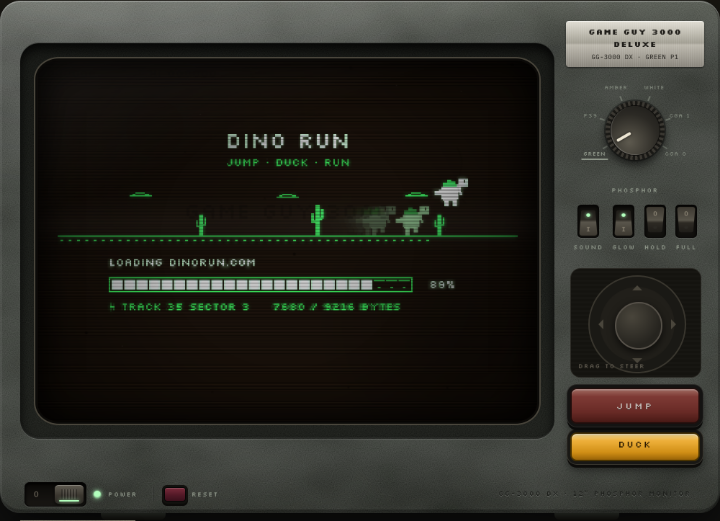
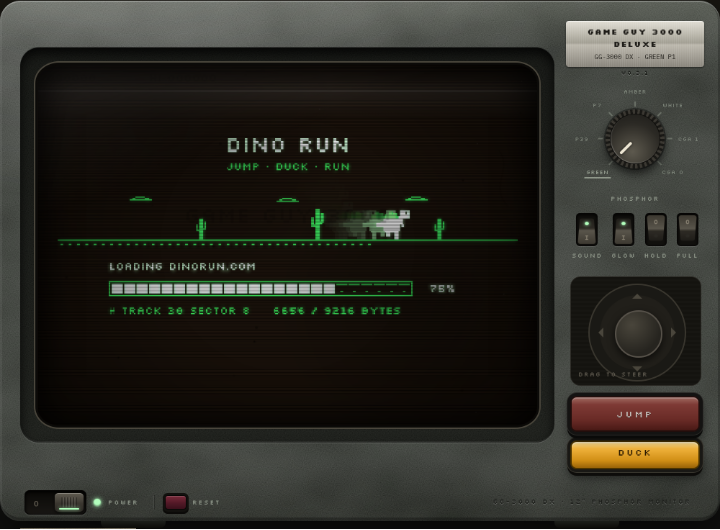
feat(console): show the release version under the nameplate
Stamp the version from package.json on its own embossed line under the
Game Guy plate, and keep that plate on screen in every layout, including
phone landscape where it sits on the right in the middle.

diff --git a/src/styles/console.css b/src/styles/console.css
@@ -93,11 +93,13 @@ button:focus-visible{outline:2px solid var(--phos);outline-offset:2px}
   background:var(--grain),linear-gradient(180deg,color-mix(in srgb, var(--plastic-lo) 55%, #000),color-mix(in srgb, var(--plastic-lo) 75%, #000));background-size:160px 160px,auto;background-blend-mode:soft-light,normal;
   box-shadow:inset 0 8px 16px rgba(0,0,0,.8),inset 0 -2px 0 rgba(255,255,255,.07),0 1px 0 rgba(255,255,255,.14),0 -1px 0 rgba(0,0,0,.3)}
 .controls{grid-area:ctl;display:flex;flex-direction:column;align-items:center;gap:14px;min-width:0}
-.nameplate{width:100%;display:grid;gap:2px;justify-items:center;padding:7px 6px;border-radius:4px;color:#1f1d19;
+.nameplate{width:100%;display:grid;gap:4px;justify-items:center}
+.np-badge{width:100%;display:grid;gap:2px;justify-items:center;padding:7px 6px;border-radius:4px;color:#1f1d19;
   background:repeating-linear-gradient(90deg,rgba(255,255,255,.08) 0 1px,transparent 1px 3px),linear-gradient(180deg,#e2dfd5,#a3a094 48%,#bdb9ae 52%,#8a867d);
   box-shadow:inset 0 1px 0 rgba(255,255,255,.75),0 1px 2px rgba(0,0,0,.55)}
 .nameplate b{font-family:var(--display);font-size:11px;letter-spacing:.08em;font-weight:700}
-.nameplate span{font-family:var(--body);font-size:9px;letter-spacing:.04em;white-space:nowrap}
+.np-badge span{font-family:var(--body);font-size:9px;letter-spacing:.04em;white-space:nowrap}
+.np-ver{margin:0;font-family:var(--display);font-size:8px;letter-spacing:.18em;line-height:1;color:var(--plastic-lo);text-shadow:0 1px 0 rgba(255,255,255,.22),0 -1px 0 rgba(0,0,0,.25)}
 .dial-block{display:grid;justify-items:center;gap:2px}
 .dial-wrap{position:relative;width:148px;height:148px}
 .dial-labels{position:absolute;inset:0}
@@ -130,7 +132,7 @@ button:focus-visible{outline:2px solid var(--phos);outline-offset:2px}
 [data-layout="console"] .power{position:static;flex-wrap:wrap;justify-content:center;gap:8px}
 [data-layout="console"] .power > .ctl-label,[data-layout="console"] .reset-grp .ctl-label{display:none}
 [data-layout="console"] .reset-grp{margin:0;padding:0;border:0;box-shadow:none}
-/* sideways gamepad: switches and power top left over the joystick; dial top right over FIRE and BOOST */
+/* sideways gamepad: switches and power top left over the joystick; dial top right, the plate mid-right, FIRE and BOOST below it */
 [data-layout="console"] .controls{display:contents}
 [data-layout="console"] .rockers{grid-area:rock;align-self:end;justify-self:center}
 [data-layout="console"] .power{grid-area:pwr;align-self:start;justify-self:center;flex-wrap:nowrap}
@@ -143,9 +145,11 @@ button:focus-visible{outline:2px solid var(--phos);outline-offset:2px}
   :root[data-layout="console"] .tv-face{grid-template-columns:minmax(176px,1fr) auto minmax(176px,1fr);grid-template-rows:auto minmax(0,1fr) auto auto minmax(0,1fr) auto;
     grid-template-areas:"pwr screen plate" "stick screen ." "stick screen dial" "stick screen rock" "stick screen ." "stick screen fire"}
   /* the badge returns to the top right; the dial, full size, sits mid-right over the switches */
-  :root[data-layout="console"] .nameplate{display:grid;grid-area:plate;align-self:start;justify-self:center;width:calc(100% - 12px);box-sizing:border-box;padding:6px 8px}
-  :root[data-layout="console"] .nameplate b{font-size:10px}
-  :root[data-layout="console"] .nameplate span{font-size:8px}
+  :root[data-layout="console"] .nameplate{display:grid;grid-area:plate;align-self:start;justify-self:center;width:calc(100% - 12px);box-sizing:border-box;gap:3px;padding:0}
+  :root[data-layout="console"] .np-badge{padding:6px 8px}
+  :root[data-layout="console"] .nameplate b{font-size:10px;letter-spacing:.08em}
+  :root[data-layout="console"] .np-badge span{font-size:8px}
+  :root[data-layout="console"] .np-ver{font-size:8px;letter-spacing:.16em}
   :root[data-layout="console"] .dial-block{align-self:end}
   :root[data-layout="console"] .dial-wrap{width:148px;height:148px}
   :root[data-layout="console"] .dial{transform:none}
@@ -276,13 +280,18 @@ button:focus-visible{outline:2px solid var(--phos);outline-offset:2px}
 [data-layout="console"] .tv{filter:none}
 [data-layout="console"] .tv-face{box-sizing:border-box;--fp:10px;--sp:8px;--avail-h:calc(100vh - env(safe-area-inset-top, 0px) - env(safe-area-inset-bottom, 0px) - 12px);
   height:var(--avail-h);padding:var(--fp);border-radius:18px;gap:10px;align-items:center;
-  grid-template-columns:minmax(140px,1fr) auto minmax(140px,1fr);grid-template-rows:auto auto minmax(0,1fr);grid-template-areas:"rock screen dial" "pwr screen dial" "stick screen fire"}
+  grid-template-columns:minmax(140px,1fr) auto minmax(140px,1fr);grid-template-rows:auto auto minmax(0,1fr) auto;grid-template-areas:"rock screen dial" "pwr screen dial" "stick screen plate" "stick screen fire"}
 @supports (height:100dvh){[data-layout="console"] .tv-face{--avail-h:calc(100dvh - env(safe-area-inset-top, 0px) - env(safe-area-inset-bottom, 0px) - 12px)}}
 [data-layout="console"] .tube-surround{grid-area:screen;padding:var(--sp);border-radius:18px;
   align-self:stretch;width:min(calc((var(--avail-h) - 2 * var(--fp) - 2 * var(--sp)) * 1.75 + 2 * var(--sp)), calc(100vw - 2 * max(16px, env(safe-area-inset-left, 0px)) - 2 * var(--fp) - 320px))}
 [data-layout="console"] .screen{aspect-ratio:auto;width:100%;height:100%}
 [data-layout="console"] .controls{grid-area:ctl;flex-direction:column;flex-wrap:nowrap;gap:8px;align-self:start}
-[data-layout="console"] .nameplate,[data-layout="console"] .grille,[data-layout="console"] .tk,[data-layout="console"] .dial-block .ctl-label{display:none}
+[data-layout="console"] .grille,[data-layout="console"] .tk,[data-layout="console"] .dial-block .ctl-label{display:none}
+[data-layout="console"] .nameplate{display:grid;grid-area:plate;align-self:center;justify-self:center;width:calc(100% - 8px);box-sizing:border-box;gap:3px;padding:0}
+[data-layout="console"] .np-badge{padding:4px 5px}
+[data-layout="console"] .nameplate b{font-size:8px;letter-spacing:.04em}
+[data-layout="console"] .np-badge span{font-size:7px}
+[data-layout="console"] .np-ver{font-size:7px;letter-spacing:.12em}
 [data-layout="console"] .dial-wrap{width:104px;height:104px}
 [data-layout="console"] .dial{transform:scale(.78)}
 [data-layout="console"] .rockers{gap:8px}
@@ -306,8 +315,10 @@ button:focus-visible{outline:2px solid var(--phos);outline-offset:2px}
 [data-layout$="portrait"] .dial{transform:scale(.72)}
 [data-layout$="portrait"] .rockers{gap:8px}
 [data-layout$="portrait"] .rocker{height:38px}
-[data-layout$="portrait"] .nameplate{position:absolute;right:14px;bottom:13px;width:auto;flex-basis:auto;padding:4px 8px;display:flex;gap:6px;align-items:baseline}
-[data-layout$="portrait"] .nameplate b,[data-layout$="portrait"] .nameplate span{font-size:8px}
+[data-layout$="portrait"] .nameplate{position:absolute;right:14px;bottom:13px;width:auto;flex-basis:auto;padding:0;display:grid;justify-items:center;gap:3px}
+[data-layout$="portrait"] .np-badge{width:auto;display:flex;gap:6px;align-items:baseline;padding:4px 8px}
+[data-layout$="portrait"] .nameplate b,[data-layout$="portrait"] .np-badge span{font-size:8px}
+[data-layout$="portrait"] .np-ver{font-size:7px;letter-spacing:.12em}
 [data-layout$="portrait"] .stickzone{height:136px}
 [data-layout$="portrait"] .fire{height:48px}
 [data-layout$="portrait"] .keyrow{flex-direction:row}
@@ -330,7 +341,7 @@ button:focus-visible{outline:2px solid var(--phos);outline-offset:2px}
 [data-layout="phone-portrait"] .boost{height:44px}
 [data-layout="phone-portrait"] .power{bottom:9px}
 [data-layout="phone-portrait"] .nameplate{bottom:18px}
-[data-layout="phone-portrait"] .nameplate span{display:none}
+[data-layout="phone-portrait"] #plate{display:none}
 /* upright = handheld: joystick on the left, the two keys stacked on the right */
 [data-layout$="portrait"] .pad{flex-direction:row;align-items:stretch;gap:14px}
 [data-layout$="portrait"] .stickzone{flex:1.25 1 0;width:auto;height:156px}
@@ -471,7 +482,7 @@ h1 .h-dx{color:#cfc3a3}
 [data-layout="console"] .power{gap:6px}
 [data-layout="console"] .resetbtn{width:24px;height:18px}
 [data-layout="console"] .powerrock{width:72px}
-/* the nameplate: centred over two lines on the set; just GAME GUY on an upright phone, where SELECT needs the room */
+/* the nameplate: badge over the release version. Upright phones keep the full name while SELECT is hidden */
 .nameplate b{text-align:center}
 .nameplate b .np-rest{font:inherit;letter-spacing:inherit;white-space:normal}
 /* SELECT is hidden for now (it does what RESET does until there's more to choose from) */

diff --git a/tests/unit/nameplate.test.ts b/tests/unit/nameplate.test.ts
@@ -1,0 +1,23 @@
+import { createElement } from 'react';
+import { renderToStaticMarkup } from 'react-dom/server';
+import { readFileSync } from 'node:fs';
+import { dirname, join } from 'node:path';
+import { fileURLToPath } from 'node:url';
+import { describe, expect, it } from 'vitest';
+import { Nameplate } from '../../src/components/Nameplate';
+import { VERSION } from '../../src/components/site';
+
+const pkg = JSON.parse(readFileSync(join(dirname(fileURLToPath(import.meta.url)), '../../package.json'), 'utf8'));
+
+describe('nameplate version', () => {
+  it('reads the release from package.json', () => {
+    expect(VERSION).toBe(pkg.version);
+  });
+
+  it('stamps that version on its own line under the plate', () => {
+    const html = renderToStaticMarkup(createElement(Nameplate));
+    expect(html).toContain('class="np-badge"');
+    expect(html).toContain(`class="np-ver">v${pkg.version}</small>`);
+    expect(html.indexOf('np-badge')).toBeLessThan(html.indexOf('np-ver'));
+  });
+});

diff --git a/src/components/Nameplate.tsx b/src/components/Nameplate.tsx
@@ -1,11 +1,14 @@
-import { MODEL } from './site';
+import { MODEL, VERSION } from './site';
 
-/** The badge on the set. The console rewrites the second line with the phosphor in use. */
+/** The badge on the set. The console rewrites the phosphor line; the version follows package.json. */
 export function Nameplate(){
   return (
     <div className="nameplate">
-      <b>GAME GUY<span className="np-rest"> 3000 DELUXE</span></b>
-      <span id="plate">{MODEL} · GREEN P1</span>
+      <div className="np-badge">
+        <b>GAME GUY<span className="np-rest"> 3000 DELUXE</span></b>
+        <span id="plate">{MODEL} · GREEN P1</span>
+      </div>
+      <small className="np-ver">{`v${VERSION}`}</small>
     </div>
   );
 }

diff --git a/src/components/site.ts b/src/components/site.ts
@@ -1,4 +1,8 @@
+import { version } from '../../package.json';
+
 /** Things several components and pages share. */
 export const REPO_URL = 'https://github.com/wiiiimm/game-guy';
 export const REPO_LABEL = 'github.com/wiiiimm/game-guy';
 export const MODEL = 'GG-3000 DX';
+/** The release stamped under the nameplate. package.json is the source the release PR bumps. */
+export const VERSION = version;

diff --git a/AGENTS.md b/AGENTS.md
@@ -77,7 +77,7 @@ Requirements 1 to 10 below are built: the console boots into a disk menu with fo
 - It needs a place in every layout (`desk`, `console`, tall console, `phone-portrait`, `tablet-portrait`), sitting with RESET beside POWER.
 - **RESET vs SELECT:** RESET reboots the whole console (BIOS, then the loader); SELECT just swaps the game, through the loader.
 - Add a keyboard shortcut for it, and an analytics event (for example `select` with the game left and its level).
-- **Status:** hidden. `PowerPanel` in `src/components/PowerPanel.tsx` takes `showSelect`; pass it from `ConsoleSet` to bring the button back (and add SELECT back to the console strings). The nameplate on an upright phone shows the full name while SELECT is hidden; with SELECT back it may need shortening to GAME GUY again (`.np-rest`).
+- **Status:** hidden. `PowerPanel` in `src/components/PowerPanel.tsx` takes `showSelect`; pass it from `ConsoleSet` to bring the button back (and add SELECT back to the console strings). The nameplate on an upright phone shows the full name while SELECT is hidden; with SELECT back it may need shortening to GAME GUY again (`.np-rest`). Every layout stamps the release version (`VERSION` in `src/components/site.ts`, read from `package.json`) on its own line under the plate, including phone landscape, where the plate sits on the right in the middle.
 
 ### 8. Dino Run, with its own high-score table
 

diff --git a/README.md b/README.md
@@ -27,6 +27,7 @@ Each game also has its own page that boots straight into its disk: `/tunnel-raid
 
 ## The console
 
+- **Nameplate:** Game Guy and the phosphor in use, with the release version stamped on its own line under the plate. The version is the one in `package.json`, so it moves with the release.
 - **POWER** switches the set on (or press <kbd>Enter</kbd>). It runs a memory test, beeps, spins up the drive and boots the disk menu.
 - **Disk menu:**
   - **Choose a game:** stick, arrow keys or <kbd>1</kbd>–<kbd>9</kbd>.
